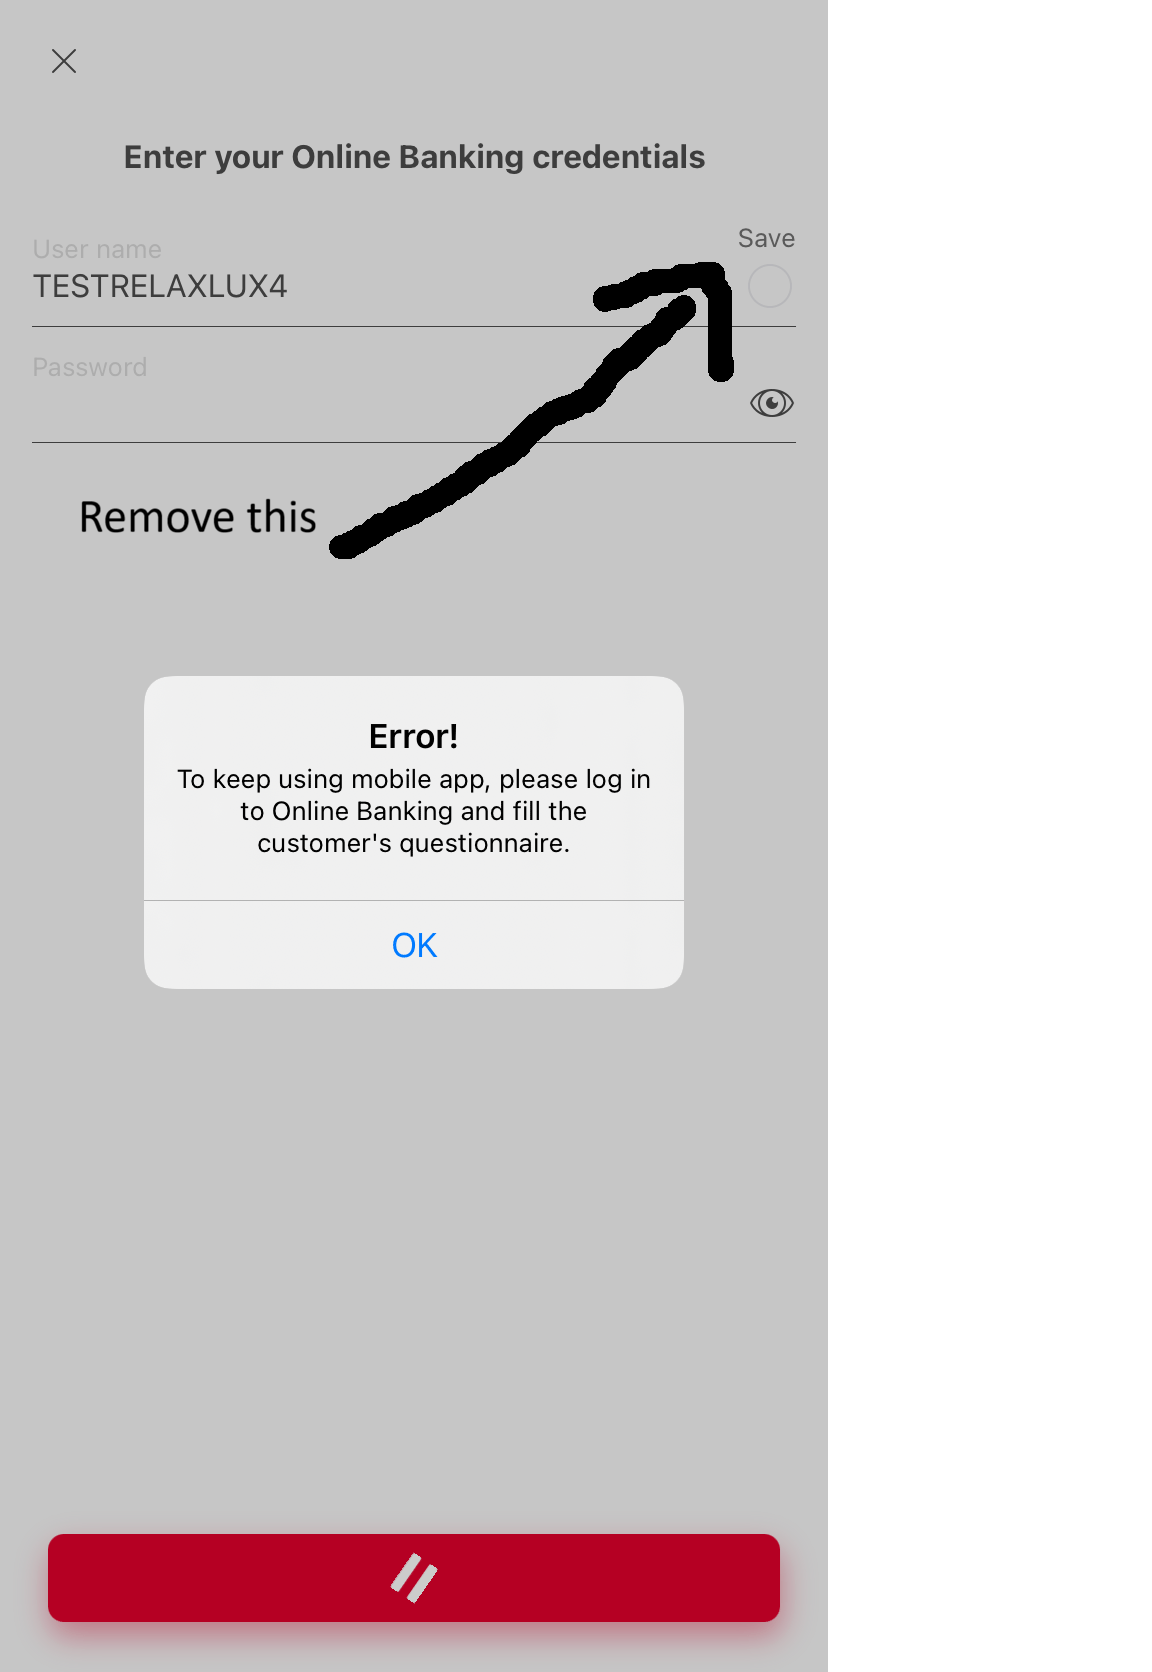
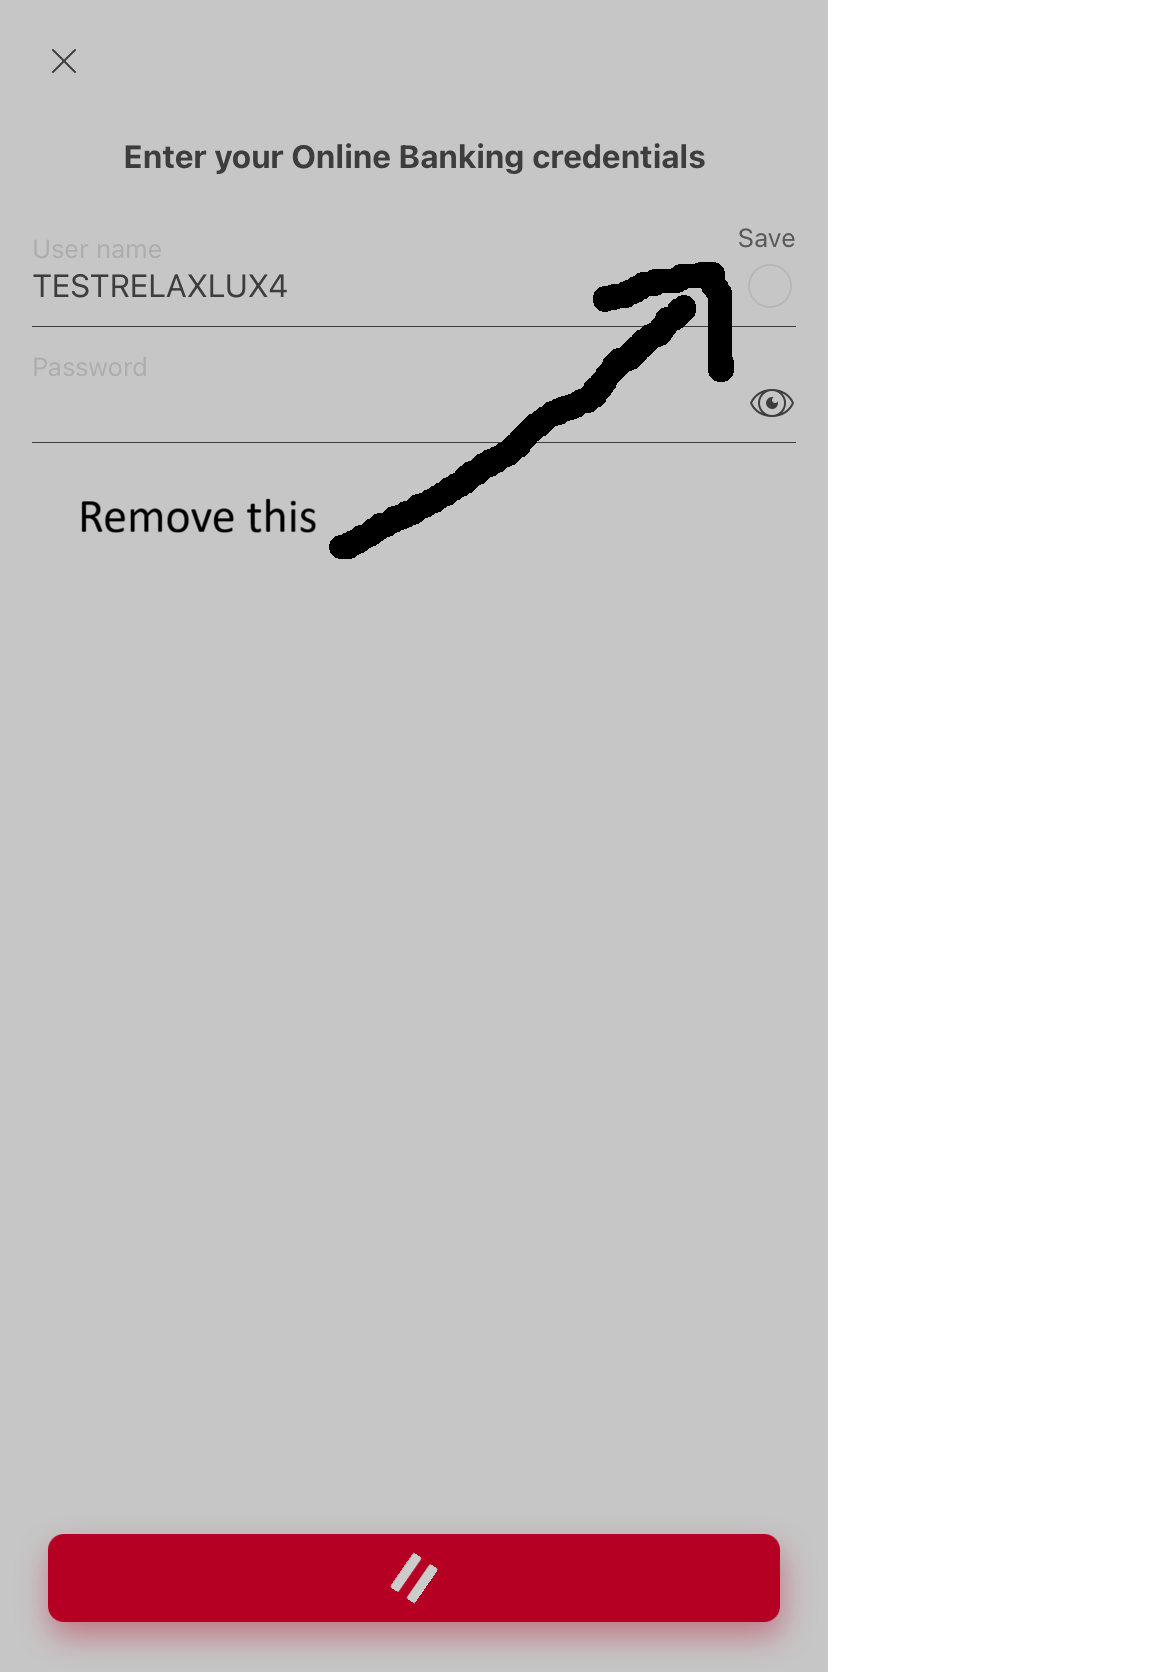
Add a case where an annotated screenshot is the whole specification
A real request from a client after a demo: no written requirement, just
a screenshot with an arrow and "Remove this" drawn on it in MS Paint,
pointing at the save-username toggle on the login screen. C11 asks a
model to read a dialog; this asks it to work out an intent from a
drawing, which is what these attachments actually demand.

The key rewards naming the control, recognising the marks as an
annotation rather than app UI, reading the fields, flagging that the
crude arrow is worth confirming, and saying the ticket is not ready to
build. The traps are calling it a bug and treating "Remove this" as text
the app displays. The image was updated by the reporter to drop the
error dialog it previously showed, so the only content is the request.

Checked against Qwen2.5-VL-72B-Instruct:Q4_K_S: it identified the intent
("they want the 'Save' option next to the username field removed") and
hit neither trap, while missing the field values, the ambiguity and the
not-ready verdict. The case discriminates.

Changed region(s): [[0.125, 0.4043, 0.5938, 0.5909]]

diff --git a/docs/JIRA_BENCHMARK.md b/docs/JIRA_BENCHMARK.md
@@ -65,6 +65,7 @@ Each case is a ticket export plus a request, as a real integration would send it
 | C09 | The error is only in a screenshot the model can't see. Say so instead of inventing it. |
 | C10 | A public-form ticket containing an instruction to AI tools to misreport its priority. |
 | C11 | The error is only in a screenshot, and the screenshot IS attached. Real vision: read the dialog, the field values and the only button. Text-only models score 0. |
+| C12 | The whole specification is a crude MS Paint annotation on a screenshot: an arrow and "Remove this". Vision plus intent — work out what is being asked for, don't mistake the annotation for the app, don't invent a defect. |
 
 Each answer-key checkpoint is one of three kinds:
 - **point:** something the analysis should say.
